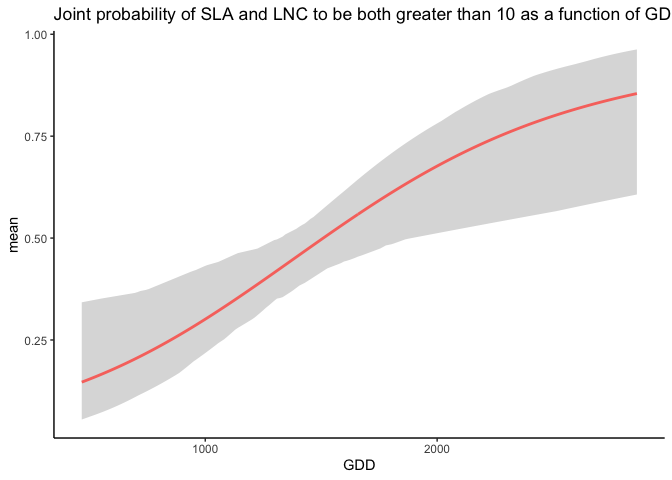
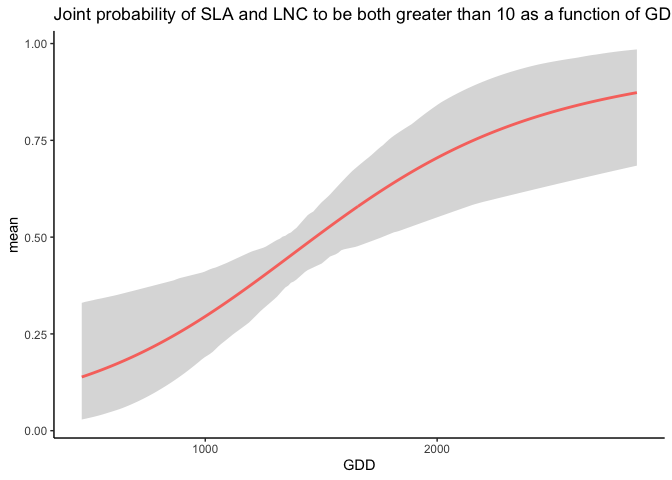
update

diff --git a/README.md b/README.md
@@ -86,18 +86,18 @@ getB(m)$Bmean
 ```
 
     ##        (Intercept)         GDD       FDD    forest
-    ## SLA       8.052593 0.009900278 0.4139134 11.352902
-    ## LNC      20.459299 0.001518372 0.1263077  3.101789
-    ## Height   10.772495 0.018821083 0.1944367  3.042952
+    ## SLA        8.78095 0.010872252 0.5490040 11.059551
+    ## LNC       20.65485 0.001937326 0.1814652  3.021635
+    ## Height    12.36151 0.016775119 0.1248564  3.824376
 
 ``` r
 get_sigma(m)$Smean
 ```
 
     ##              SLA        LNC      Height
-    ## SLA     75.50516 17.2239580 -13.4631402
-    ## LNC     17.22396  9.0167120   0.8089354
-    ## Height -13.46314  0.8089354  97.2255179
+    ## SLA     75.81373 17.3085241 -14.5933684
+    ## LNC     17.30852  9.1407323   0.6651481
+    ## Height -14.59337  0.6651481  95.4718023
 
 Trait-environment relationships
 
@@ -122,8 +122,8 @@ in a high altitude site.
 joint_trait_prob(m,indexTrait=c("SLA","LNC"), Xnew=X["VCHA_2940",], bounds=list(c(20,Inf),c(20,Inf)))$PROBmean
 ```
 
-    ##        1 
-    ## 0.104072
+    ##         1 
+    ## 0.1077798
 
 Then, we compute this probability along the GDD gradient
 
@@ -131,4 +131,6 @@ Then, we compute this probability along the GDD gradient
 joint=joint_trait_prob_gradient(m,indexTrait=c("SLA","LNC"), indexGradient="GDD", bounds=list(c(mean(Y[,"SLA"]),Inf),c(mean(Y[,"SLA"]),Inf)))
 ```
 
-And plot it ![](README_files/figure-gfm/unnamed-chunk-6-1.png)<!-- -->
+And plot it
+
+![](README_files/figure-gfm/unnamed-chunk-6-1.png)<!-- -->
